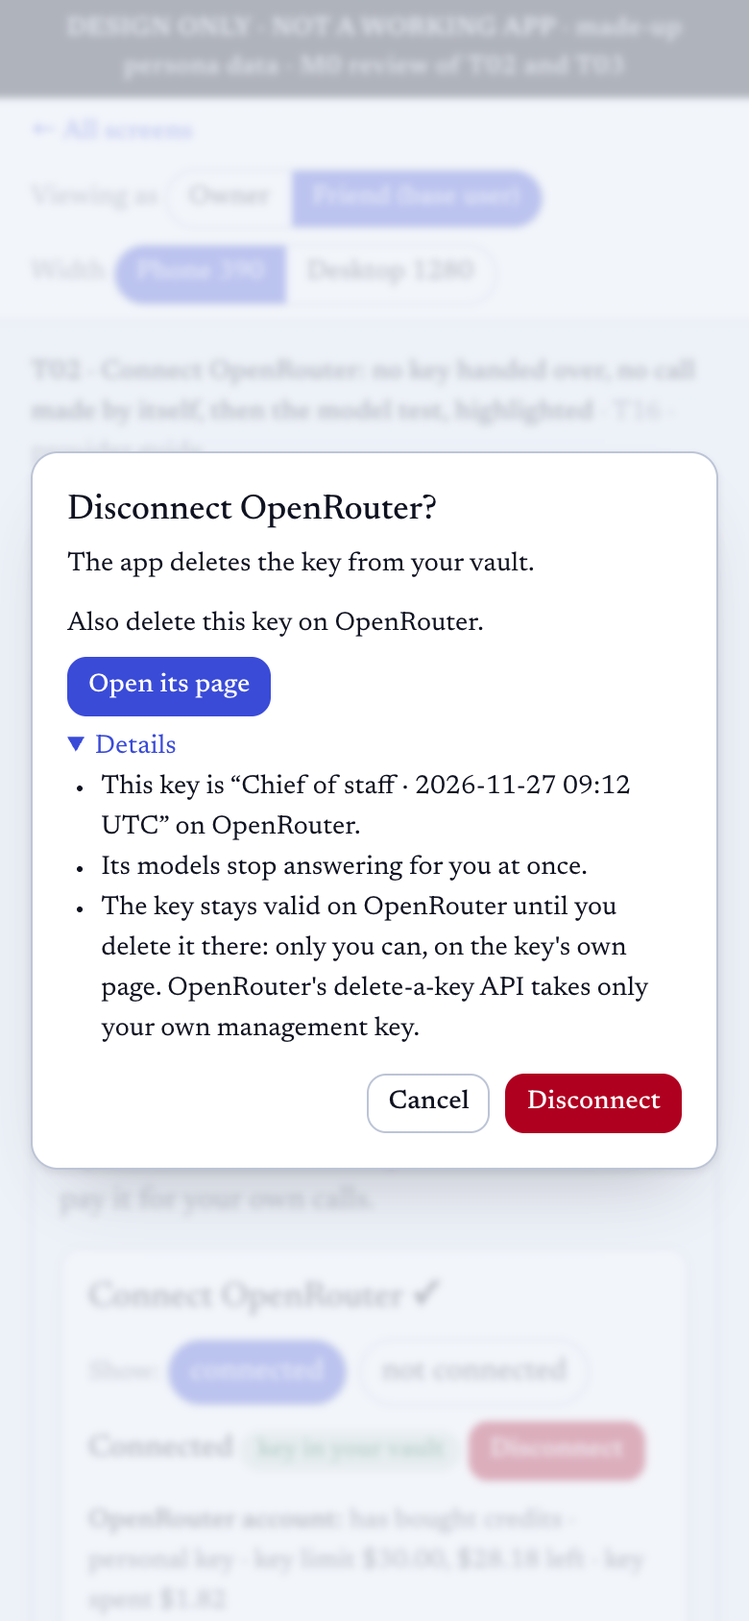
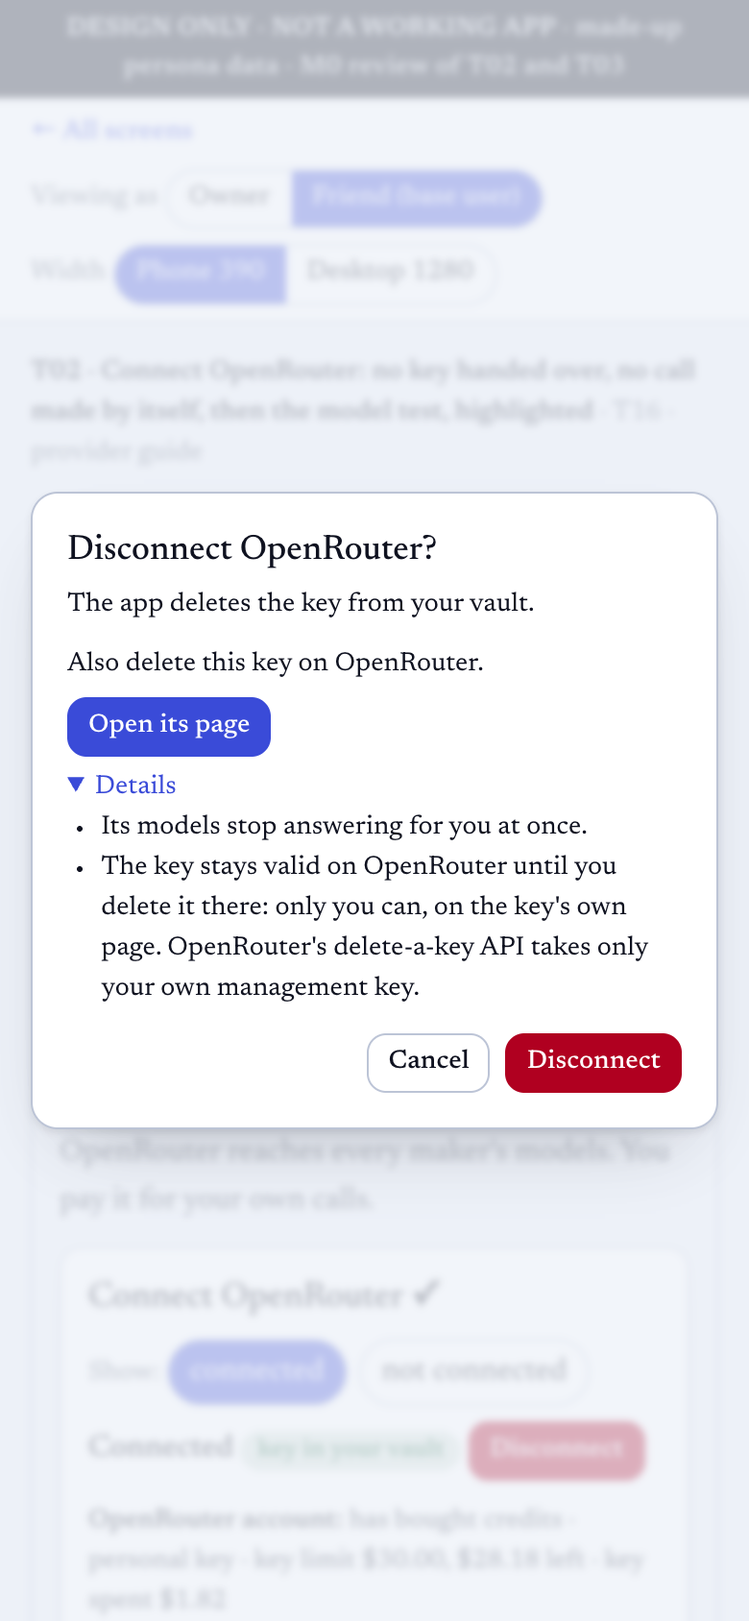
no-mistakes(review): Add seconds to key labels; replace stale walk screenshots

Changed region(s): [[0.0308, 0.2773, 0.9846, 0.7393]]

diff --git a/shell/test/connect-openrouter.test.ts b/shell/test/connect-openrouter.test.ts
@@ -88,7 +88,7 @@ describe("Connect OpenRouter", () => {
     const check = await readCheck(env.DB, userId, "openrouter");
     expect(check?.consentState).toBe(auth.searchParams.get("state"));
     // Each key's label names when Connect was tapped.
-    expect(auth.searchParams.get("key_label")).toBe("Chief of staff · 2026-11-27 10:00 UTC");
+    expect(auth.searchParams.get("key_label")).toBe("Chief of staff · 2026-11-27 10:00:00 UTC");
     const { results } = await env.DB.prepare("SELECT name FROM vault_items WHERE user_id = ?").bind(userId).all<{ name: string }>();
     expect(results.map((r) => r.name)).toEqual(["provider-verifier:openrouter"]);
   });
@@ -284,7 +284,7 @@ describe("Connect OpenRouter", () => {
     const later = new Date("2026-11-28T09:30:00Z");
     const start = await post("/openrouter/connect", {}, { now: later });
     const auth = new URL(start.headers.get("location")!);
-    expect(auth.searchParams.get("key_label")).toBe("Chief of staff · 2026-11-28 09:30 UTC");
+    expect(auth.searchParams.get("key_label")).toBe("Chief of staff · 2026-11-28 09:30:00 UTC");
     const back = await get(`/openrouter/consented?code=code-2&state=${auth.searchParams.get("state")}`, { now: later });
     expect(back.status).toBe(303);
     expect(await readConnection(env.DB, userId, "openrouter")).toEqual({ method: "oauth_pkce", key_hash: await sha256Hex(ISSUED_KEY) });

diff --git a/shell/src/providers/openrouter.ts b/shell/src/providers/openrouter.ts
@@ -76,8 +76,8 @@ export const OPENROUTER_KEY_URL = "https://openrouter.ai/api/v1/key";
 // (https://openrouter.ai/docs/faq, read 2026-11-27).
 export const OPENROUTER_ACTIVITY_URL = "https://openrouter.ai/activity";
 export const KEY_LABEL = "Chief of staff";
-// "Chief of staff · 2026-11-27 14:05 UTC": the key's label, from when Connect was tapped.
-export const keyLabelAt = (now: Date): string => `${KEY_LABEL} · ${now.toISOString().slice(0, 10)} ${now.toISOString().slice(11, 16)} UTC`;
+// "Chief of staff · 2026-11-27 14:05:59 UTC": the key's label, from when Connect was tapped.
+export const keyLabelAt = (now: Date): string => `${KEY_LABEL} · ${now.toISOString().slice(0, 10)} ${now.toISOString().slice(11, 19)} UTC`;
 export const APP_TITLE = "Chief of staff";
 
 // The test call's request: the smallest that proves a model answers, its

diff --git a/shell/test/openrouter.test.ts b/shell/test/openrouter.test.ts
@@ -29,7 +29,7 @@ describe("Connect OpenRouter: OAuth PKCE", () => {
     expect(url.searchParams.get("code_challenge")).toBe(await challengeOf(verifier));
     expect(url.searchParams.get("state")).toBe("s1");
     // Each Connect mints a new key, so each label names when it was made.
-    expect(url.searchParams.get("key_label")).toBe("Chief of staff · 2026-11-27 14:05 UTC");
+    expect(url.searchParams.get("key_label")).toBe("Chief of staff · 2026-11-27 14:05:59 UTC");
     expect(url.searchParams.get("limit")).toBe("31.00");
     // RFC 7636: 43 to 128 characters of the unreserved set; never sent to the browser.
     expect(verifier).toMatch(/^[A-Za-z0-9_-]{43,128}$/);

diff --git a/docs/design-v3.md b/docs/design-v3.md
@@ -304,7 +304,7 @@ Considered and not used: Cloudflare AI Gateway as a pass-through in front of the
 
 For both tiers, guided, so no user is left without help. The guide shows the OpenRouter pages it was checked against and the date, and is walked live on the owner's own account before it ships (section 1.6).
 
-- **Provider screen (T16)**, Models › Setup › Providers. One button, **Connect OpenRouter**, with no field (section 1.6), under three action lines: tap Connect OpenRouter; sign in on OpenRouter and tap Authorize; choose a model below and test it. Everything else sits behind a collapsed "What this does" (the owner, 2026-11-27, of the old guide: "why not make it even more verbose ... so that the users learn to read a book in 30seconds?"). No test call runs by itself (the owner, 2026-11-27: "the post connect step, where authorization from openrouter succeeds, should be to scroll/highlight the testing section"): once OpenRouter has authorized the app the panel shows "Connected", and the page opens at the model test, highlighted, with focus on its dropdown. That dropdown is OpenRouter's live list, never a list the app names itself (the owner, 2026-11-27: "how many times have i said not use a fixed hardcoded list of models but always query all models from the fucking provider?"), and reads "Choose a model"; choosing one sends nothing and loads nothing, and only turns the disabled button into "Test with <model>?", whose tap runs that one model's test call, its reply capped at 16 tokens. The provider is usable once one model has passed. Test all models stays a separate action, with its estimate and confirm. A model is free only when it gives only text and every price OpenRouter lists for it is 0 (prompt, completion, request, image, audio, web search, reasoning, cache and any other); a model that also gives audio, images or video is never offered or tested, since its token prices are not its whole price (OpenRouter lists Google's Lyria music models at $0 a token and charges them per clip). The panel's **account line** reads OpenRouter's `GET /api/v1/key` with the user's key, server side: whether the account has ever bought credits, whether the key is the user's own or an organization's, its limit, what is left and what it has spent, with **Add credits** for an account that never bought any. So a $0 account can connect, see every model, test them all (paid ones say they need credit on OpenRouter), add free models and use them for every task in one tap ("Use my free models for every task", offered where no model is proposed, since a free model is never proposed). Where free models show, the screen states OpenRouter's terms: 20 requests a minute, and 50 a day until the account has bought 10 credits in all, then 1,000 [OR-LIMITS], and its refusal "No endpoints found matching your data policy" when the privacy settings exclude a free model's providers, with a link to those settings. There is no region to choose. OpenRouter has its own **monthly budget** (section 1.8). A connected OpenRouter shows "Connected" with **Disconnect** (with a confirm). Disconnect deletes the key from the vault, the connection and its check at once, and the models stop answering. OpenRouter offers no way for an app to revoke a user's key, so Disconnect's confirmation says "Also delete this key on OpenRouter." with a button to that key's own page, and the page it returns to links the user's keys on OpenRouter. Each Connect mints a new key (OpenRouter's flow cannot reuse one), so each key's label carries its date and time, "Chief of staff · <YYYY-MM-DD HH:MM> UTC", and a collapsed "Why a new key each time" under Connect says so. A connection has no end date; a key deleted at OpenRouter gives the urgent alert of section 10.6.
+- **Provider screen (T16)**, Models › Setup › Providers. One button, **Connect OpenRouter**, with no field (section 1.6), under three action lines: tap Connect OpenRouter; sign in on OpenRouter and tap Authorize; choose a model below and test it. Everything else sits behind a collapsed "What this does" (the owner, 2026-11-27, of the old guide: "why not make it even more verbose ... so that the users learn to read a book in 30seconds?"). No test call runs by itself (the owner, 2026-11-27: "the post connect step, where authorization from openrouter succeeds, should be to scroll/highlight the testing section"): once OpenRouter has authorized the app the panel shows "Connected", and the page opens at the model test, highlighted, with focus on its dropdown. That dropdown is OpenRouter's live list, never a list the app names itself (the owner, 2026-11-27: "how many times have i said not use a fixed hardcoded list of models but always query all models from the fucking provider?"), and reads "Choose a model"; choosing one sends nothing and loads nothing, and only turns the disabled button into "Test with <model>?", whose tap runs that one model's test call, its reply capped at 16 tokens. The provider is usable once one model has passed. Test all models stays a separate action, with its estimate and confirm. A model is free only when it gives only text and every price OpenRouter lists for it is 0 (prompt, completion, request, image, audio, web search, reasoning, cache and any other); a model that also gives audio, images or video is never offered or tested, since its token prices are not its whole price (OpenRouter lists Google's Lyria music models at $0 a token and charges them per clip). The panel's **account line** reads OpenRouter's `GET /api/v1/key` with the user's key, server side: whether the account has ever bought credits, whether the key is the user's own or an organization's, its limit, what is left and what it has spent, with **Add credits** for an account that never bought any. So a $0 account can connect, see every model, test them all (paid ones say they need credit on OpenRouter), add free models and use them for every task in one tap ("Use my free models for every task", offered where no model is proposed, since a free model is never proposed). Where free models show, the screen states OpenRouter's terms: 20 requests a minute, and 50 a day until the account has bought 10 credits in all, then 1,000 [OR-LIMITS], and its refusal "No endpoints found matching your data policy" when the privacy settings exclude a free model's providers, with a link to those settings. There is no region to choose. OpenRouter has its own **monthly budget** (section 1.8). A connected OpenRouter shows "Connected" with **Disconnect** (with a confirm). Disconnect deletes the key from the vault, the connection and its check at once, and the models stop answering. OpenRouter offers no way for an app to revoke a user's key, so Disconnect's confirmation says "Also delete this key on OpenRouter." with a button to that key's own page, and the page it returns to links the user's keys on OpenRouter. Each Connect mints a new key (OpenRouter's flow cannot reuse one), so each key's label carries its date and time, "Chief of staff · <YYYY-MM-DD HH:MM:SS> UTC", and a collapsed "Why a new key each time" under Connect says so. A connection has no end date; a key deleted at OpenRouter gives the urgent alert of section 10.6.
 - **Adding a model (T17).** One screen (the owner, 2026-11-27: "add a model should mean just the fact that we have something added in the dropdown, and the dropdown was supposed to be shown in the connect screen itself"; there is no separate Add a model page, and its old path leads to the Connect screen). Below Connect, once OpenRouter has authorized the app, one dropdown lists every model OpenRouter lists (section 1.2), read from OpenRouter's own public models API by the daily price refresh (06:00 UTC) and again on **Refresh model list** (once a minute at most), which also reads the user's own account's list again with their key (section 1.2). A model the app cannot use, or the user's account leaves out, is shown with its plain reason and cannot be chosen. Each entry shows its input and output price per million tokens, "OpenRouter models API, read <date>", with nothing to type, and the tier the app works out from the input price as a coloured label naming it (Smallest, Middle, Strongest; decision 6). A native select cannot colour entries, so it is a custom accessible listbox (keyboard, focus visible, phone width), with a plain select for a browser without scripts. Entry notes: "no tool use (OpenRouter lists no tool support for it)" where the model's supported parameters lack `tools`; "OpenRouter retires it on <date>" where it has an expiration date; "priced higher from <n> prompt tokens" where it has a prompt-length price. Choosing a model sends nothing and loads nothing; tapping "Test with <model>?" runs its test call once, right there. It is added only when that call passes and the reply names that model (variants such as `:batch` compare equal to their base); otherwise the plain reason shows under the list.
 - **Test all models**, below the list. It first shows how many models it will test and the estimated total cost, from OpenRouter's prices for the test's tokens (the test prompt's input tokens and at most 16 output tokens per model) and any fee per call, and runs only on confirm. It then runs in the background, a few models at a time (the every-minute cron, with bounded concurrency), each call capped at 16 output tokens; each tick claims its tests before calling, so overlapping ticks never test a model twice, and a claim older than 10 minutes is taken again. One run at a time per user, held by a unique index even when two starts race, and a new run at most every 10 minutes. A reply of 200 with no text (a reasoning model that spent its tokens thinking) counts as working. The results are stored per user: per model "works now" or "doesn't work now" with the plain reason, and the real total from the cost OpenRouter reports. It adds nothing to the user's models: it only shows which work (the owner, 2026-11-27: "just to let a COS user see ... what all models work and what arent"). Each model that works has a one-tap **Add**, which adds it with that run's passed test call and makes no new call; Add is refused for any model that did not pass in the user's latest run.
 - **Per-task picker (T18).** For each task the user chooses the provider and the model, for the main model and for the fallback. The provider choice offers only OpenRouter today, and is shaped so a second provider can plug in. It offers only models that passed a test, chosen one by one or added from Test all models' results. For each task it proposes a main model and a fallback, accepted with one tap, at decision 6's tiers: the smallest for matching, extraction and LinkedIn invitations and messages; the middle for form filling, checking, scoring, cover letters and free-text answers. The main model is the cheapest of the user's passed models at the task's strength; the fallback is the next cheapest at that strength, else at the other strength that is not Strongest, and never the main model itself: the fallback is always another passed model. With one provider, a task's fallback is another model on OpenRouter. No task defaults to the strongest tier. A free model (one that gives only text and costs $0 on every price OpenRouter lists, such as most of OpenRouter's `:free` ones) is never proposed, as main or fallback, nor used as the one model when it is the user's only one: a task uses it only once the user chooses it, with Change or, where no model is proposed (a $0 account's passed models are all free), with one tap, **Use my free models for every task**, which picks by the proposal's own rule among the free models, saves them as the user's choice, and says why it is offered. Its entry in the model list and in the picker reads "free: rate-limited, and the provider may log prompts". The user can change any of them, including to the strongest tier.
@@ -331,7 +331,7 @@ Real error bodies saved for automated tests go only into the private test-exampl
 Read on 2026-11-27 [OR-OAUTH] [OR-KEY-DELETE]. The guide re-reads its pages when it is built and shows its "checked on" date and link. The user needs an OpenRouter account; calls are billed to the user's own credits, and an account with no credit can still use OpenRouter's free models (section 1.5, T16).
 
 1. On Models › Setup › Providers, tap **Connect OpenRouter**. There is no field to fill.
-2. The app sends the user to OpenRouter's own authorization page (OAuth PKCE, S256, with a fresh `state`), with the key's label prefilled "Chief of staff · <date and time of Connect> UTC" and its credit limit prefilled: the user's monthly OpenRouter budget in the app when one is set, else $10. OpenRouter's `limit` parameter "Prefills the credit limit of the new API key, in US dollars" [OR-OAUTH].
+2. The app sends the user to OpenRouter's own authorization page (OAuth PKCE, S256, with a fresh `state`), with the key's label prefilled "Chief of staff · <YYYY-MM-DD HH:MM:SS of Connect> UTC" and its credit limit prefilled: the user's monthly OpenRouter budget in the app when one is set, else $10. OpenRouter's `limit` parameter "Prefills the credit limit of the new API key, in US dollars" [OR-OAUTH].
 3. The user signs in at OpenRouter, can change the limit there, and taps **Authorize**. The limit is the key's own credit limit on OpenRouter, separate from the app's monthly budget: the user can change it, or give it a reset period (say monthly), on the key's page at OpenRouter, now or later. The guide says so.
 4. OpenRouter sends the user back to `<APP_ORIGIN>/chief-of-staff/models/setup/providers/openrouter/consented?code=…&state=…`. The app checks the `state` (spent once), exchanges the code with its PKCE verifier (`POST https://openrouter.ai/api/v1/auth/keys`; "Authorization codes expire 10 minutes after issuance") and receives a key OpenRouter issued for the app [OR-OAUTH]. The key goes straight into the user's own vault (section 1.4).
 5. The page opens at the model test (section 1.5); nothing runs by itself. The user chooses a model and taps Test with <model>?, or tests them all at once, then sets the monthly budget and the model for each task, the order of the Models tab (Providers and models, Budgets, Model for each task), which each screen's Next button follows.
@@ -393,7 +393,7 @@ A second table records each container run: user, `site`, `company`, `run_id`, st
 
 > **Decision record ADR-018: OpenRouter is the only model provider; each user connects their own OpenRouter account with "Connect OpenRouter", authorizing a key on OpenRouter's own consent page, and the key OpenRouter issues goes straight into that user's vault; one proxy in the Worker calls OpenRouter on exactly the chosen model, takes tokens and cost from its reply, enforces the user's budget and keeps the usage ledger** (supersedes ADR-001, 2026-11-27)
 > *Context.* The owner wants the models with a different vendor from the rest of the system, to see daily and per-job-site usage, and each user to pay for their own model use. From 2026-11-23 the design had three providers, Foundry, Bedrock and Vertex AI, each connected by a grant to the app's own identity inside the user's cloud account (ADR-001). On 2026-11-27 the owner removed all three (the owner, 2026-11-27: "so delete all the three: bedrock, gcp and foundry, and only have openrouter."). OpenRouter issues an app a key tied to the user's own account through OAuth PKCE, billed to the user's own credits; sells every model family through one endpoint; reports tokens and cost in every reply; and offers no way for an app to delete a user's key without a management key. The agent runs in a container that must hold no secret.
-> *Decision.* OpenRouter is the only provider, for the owner and every friend. Each user connects it with one button, Connect OpenRouter, with no field: OpenRouter's own authorization page (OAuth PKCE, S256, a fresh `state`), with the key's label "Chief of staff · <date and time of Connect> UTC" and its credit limit prefilled (the user's monthly budget when set, else $10); the user signs in at OpenRouter and authorizes, and the app exchanges the code for a key issued to the app. The key is never typed, pasted, shown, logged or sent to the browser; it goes straight into the user's own vault (the user's own AES-256-GCM key, wrapped by the Worker secret `VAULT_KEY`), and the connection record holds nothing secret. The model list is every model OpenRouter's public models API lists, read daily and on Refresh model list, each with its price and the tier the app works out from its input price; one the app cannot use, or the user's own account leaves out (OpenRouter's per-account list, read with the user's key), is listed but not choosable, with a plain reason. No test call runs by itself after Connect: the user chooses a model from the live list and taps "Test with <model>?", which runs that model's test call once; Test all models tests them together after showing the estimated cost and adds none of them (each that works has a one-tap Add). A model is free only when it gives only text and every price OpenRouter lists for it is 0, and a model that also gives audio, images or video cannot be chosen. Every call goes through one proxy in the Worker, straight to OpenRouter, on exactly the chosen model (OpenRouter's own model fallback taken out), and is refused if the model is no longer listed, has no price, the budget is unset or spent, or no key is in the vault. Tokens and cost come from OpenRouter's reply (its `usage.cost`, plus the upstream cost when the user's account routed the call through their own provider key); only a reply with no cost is priced from the price table, never below what OpenRouter can charge (its fee per call and reasoning rate included); each call writes a D1 ledger row naming how it was costed and OpenRouter's generation id. OpenRouter's Activity page and generation records are the independent check; there is no AI Gateway (the owner, 2026-11-24: "yes drop it", after asking "why we still need this?"). One monthly budget per user; the key's credit limit at OpenRouter, prefilled with that budget, is a second cap and the key's own, which the user can change or give a reset period on OpenRouter. For each task the user chooses the provider (OpenRouter only today) and a main and a fallback model from the models that passed a test; the fallback is another model on OpenRouter, never the main model itself; a free model is never proposed. Disconnect deletes the key from the vault, and its confirmation opens that key's own page on OpenRouter, where the user deletes it. The plug-in interface stays, so a new provider is one plug-in and its button; the app's own OpenID Connect issuer, kept that day for a planned Connect Anthropic, was removed the same day when the owner parked it, and OpenAI's models are reached through OpenRouter. Three rules hold for every provider, now and later: each user pays for their own model use and the owner pays for no one else's, and no user ever pastes a key into the app (the owner, 2026-11-27: "bring ur own model means bring ur own model, i am paying for jack shit. i.e. i am not paying for anybody else. no one would want their privacy to be sacrificed, so pasting a key is a hard no."); a user choosing or authorizing a key at the provider, so that the provider issues it to the app through a consent flow, is allowed and is not giving a key.
+> *Decision.* OpenRouter is the only provider, for the owner and every friend. Each user connects it with one button, Connect OpenRouter, with no field: OpenRouter's own authorization page (OAuth PKCE, S256, a fresh `state`), with the key's label "Chief of staff · <YYYY-MM-DD HH:MM:SS of Connect> UTC" and its credit limit prefilled (the user's monthly budget when set, else $10); the user signs in at OpenRouter and authorizes, and the app exchanges the code for a key issued to the app. The key is never typed, pasted, shown, logged or sent to the browser; it goes straight into the user's own vault (the user's own AES-256-GCM key, wrapped by the Worker secret `VAULT_KEY`), and the connection record holds nothing secret. The model list is every model OpenRouter's public models API lists, read daily and on Refresh model list, each with its price and the tier the app works out from its input price; one the app cannot use, or the user's own account leaves out (OpenRouter's per-account list, read with the user's key), is listed but not choosable, with a plain reason. No test call runs by itself after Connect: the user chooses a model from the live list and taps "Test with <model>?", which runs that model's test call once; Test all models tests them together after showing the estimated cost and adds none of them (each that works has a one-tap Add). A model is free only when it gives only text and every price OpenRouter lists for it is 0, and a model that also gives audio, images or video cannot be chosen. Every call goes through one proxy in the Worker, straight to OpenRouter, on exactly the chosen model (OpenRouter's own model fallback taken out), and is refused if the model is no longer listed, has no price, the budget is unset or spent, or no key is in the vault. Tokens and cost come from OpenRouter's reply (its `usage.cost`, plus the upstream cost when the user's account routed the call through their own provider key); only a reply with no cost is priced from the price table, never below what OpenRouter can charge (its fee per call and reasoning rate included); each call writes a D1 ledger row naming how it was costed and OpenRouter's generation id. OpenRouter's Activity page and generation records are the independent check; there is no AI Gateway (the owner, 2026-11-24: "yes drop it", after asking "why we still need this?"). One monthly budget per user; the key's credit limit at OpenRouter, prefilled with that budget, is a second cap and the key's own, which the user can change or give a reset period on OpenRouter. For each task the user chooses the provider (OpenRouter only today) and a main and a fallback model from the models that passed a test; the fallback is another model on OpenRouter, never the main model itself; a free model is never proposed. Disconnect deletes the key from the vault, and its confirmation opens that key's own page on OpenRouter, where the user deletes it. The plug-in interface stays, so a new provider is one plug-in and its button; the app's own OpenID Connect issuer, kept that day for a planned Connect Anthropic, was removed the same day when the owner parked it, and OpenAI's models are reached through OpenRouter. Three rules hold for every provider, now and later: each user pays for their own model use and the owner pays for no one else's, and no user ever pastes a key into the app (the owner, 2026-11-27: "bring ur own model means bring ur own model, i am paying for jack shit. i.e. i am not paying for anybody else. no one would want their privacy to be sacrificed, so pasting a key is a hard no."); a user choosing or authorizing a key at the provider, so that the provider issues it to the app through a consent flow, is allowed and is not giving a key.
 > *Consequences.* No user types a price or a key. A friend's setup is an OpenRouter account (with credits for paid models; free models need none), one button and one Authorize, with no cloud account, role, template or command. No region is chosen. The ledger counts what OpenRouter reports billing, and the budget stop never counts less than OpenRouter can charge. The per-provider bill checks of T118 no longer apply: token honesty is checked against OpenRouter's own Activity page and generation records, from which the ledger's figures come. The app cannot revoke a key, so a user who disconnects deletes it at OpenRouter, and the screen says how. A spent budget or a missing key stops a task's main model and its fallback together. Prompts pass through OpenRouter to the provider it routes to; OpenRouter's data-handling terms are not yet read. The vault key is never rotated casually. The tables only the three earlier providers used stay in D1 until a later contract release, and the ledger keeps past calls to them. Nothing in the owner's AWS, Google or Azure accounts was touched; what remains there is listed for the owner outside the repository.
 
 ADR-001 (Foundry, Bedrock and Vertex AI, connected by grants to the app's own identity), accepted on 2026-11-24, is superseded by ADR-018 and kept in `docs/adr/` as history.

diff --git a/shell/src/providers/README.md b/shell/src/providers/README.md
@@ -22,7 +22,7 @@ read 2026-11-27):
    `https://openrouter.ai/auth` with `callback_url`
    (`<APP_ORIGIN>/chief-of-staff/models/setup/providers/openrouter/consented`),
    the S256 `code_challenge`, `state`, `key_label` and `limit`. The label is
-   dated, `Chief of staff · 2026-11-27 14:05 UTC` (UTC, when Connect was
+   dated, `Chief of staff · 2026-11-27 14:05:59 UTC` (UTC, when Connect was
    tapped), because every Authorize mints a new key (below). `limit` is
    the user's monthly OpenRouter budget in the app, or $10 before one is set.
    It is the key's own credit limit on OpenRouter, separate from the app's
